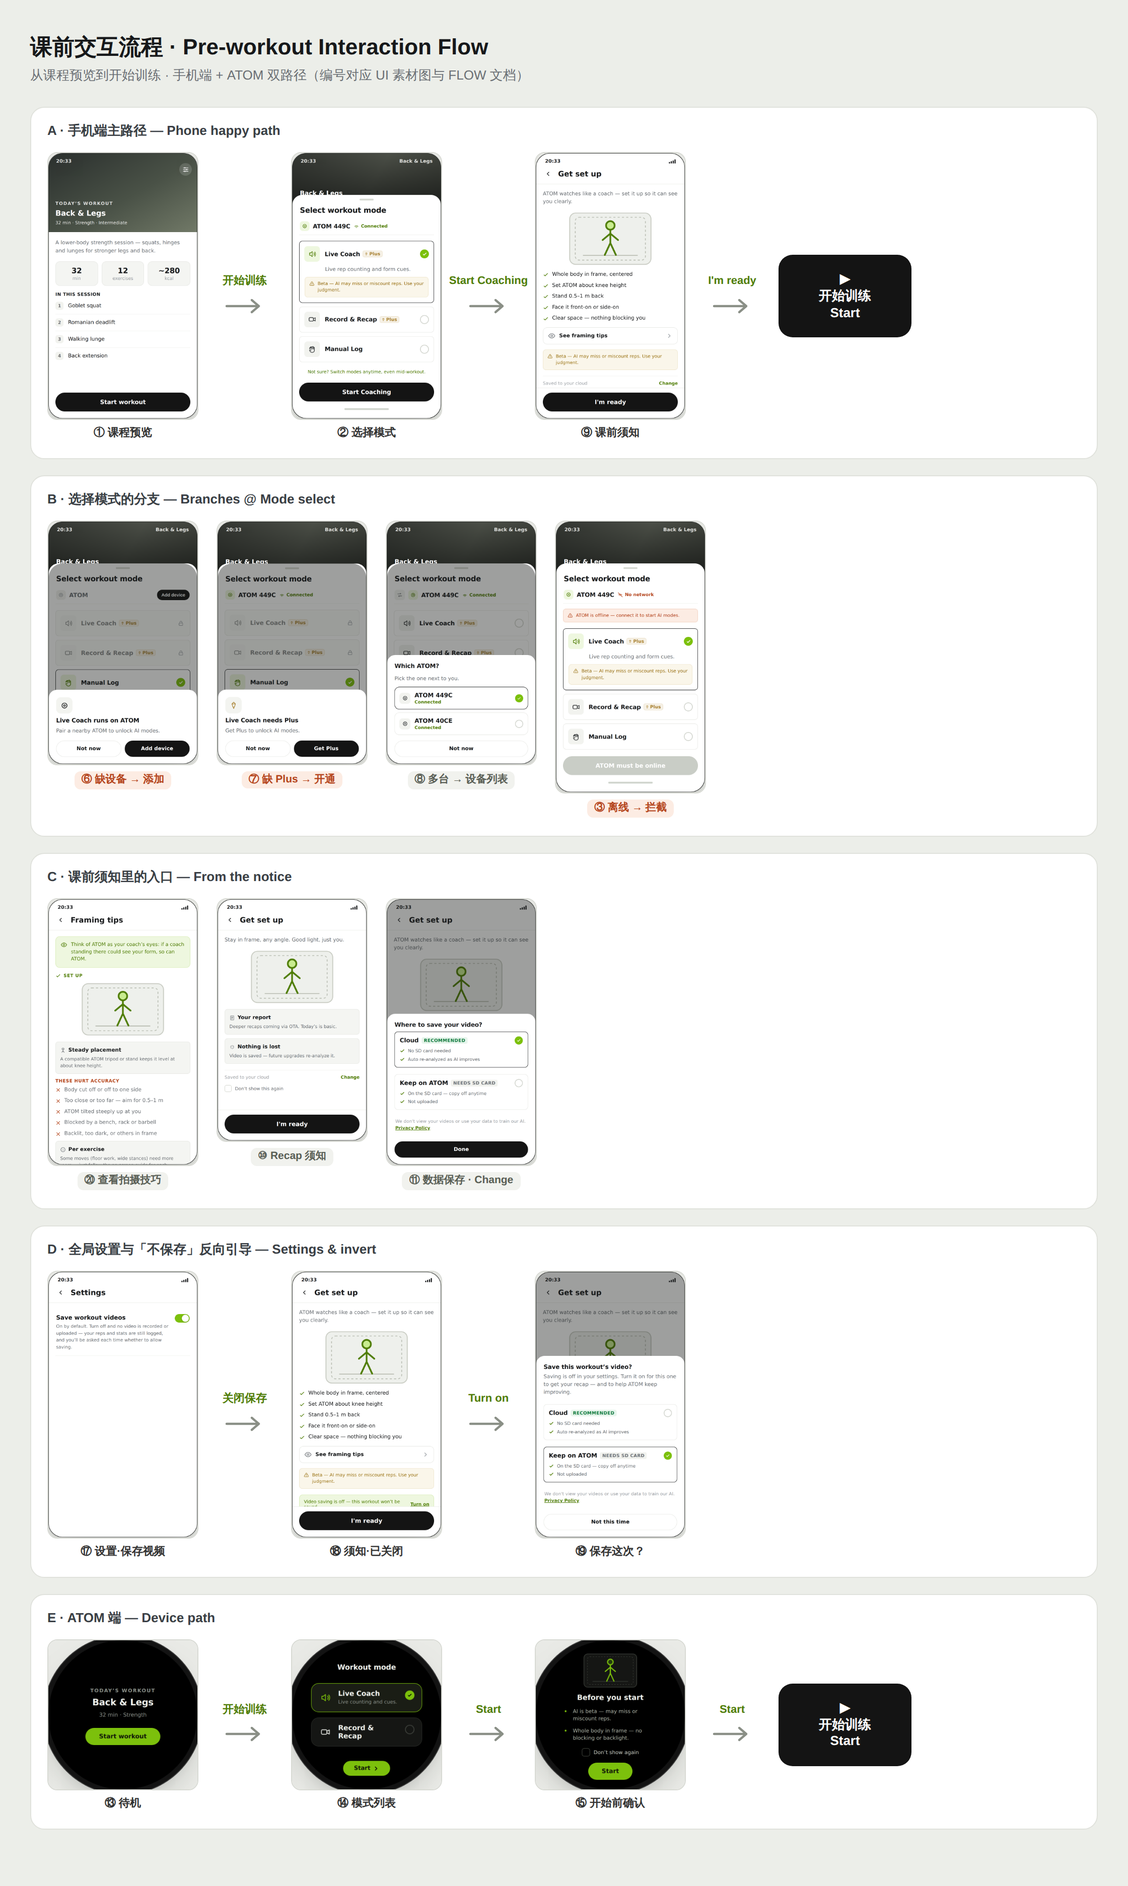
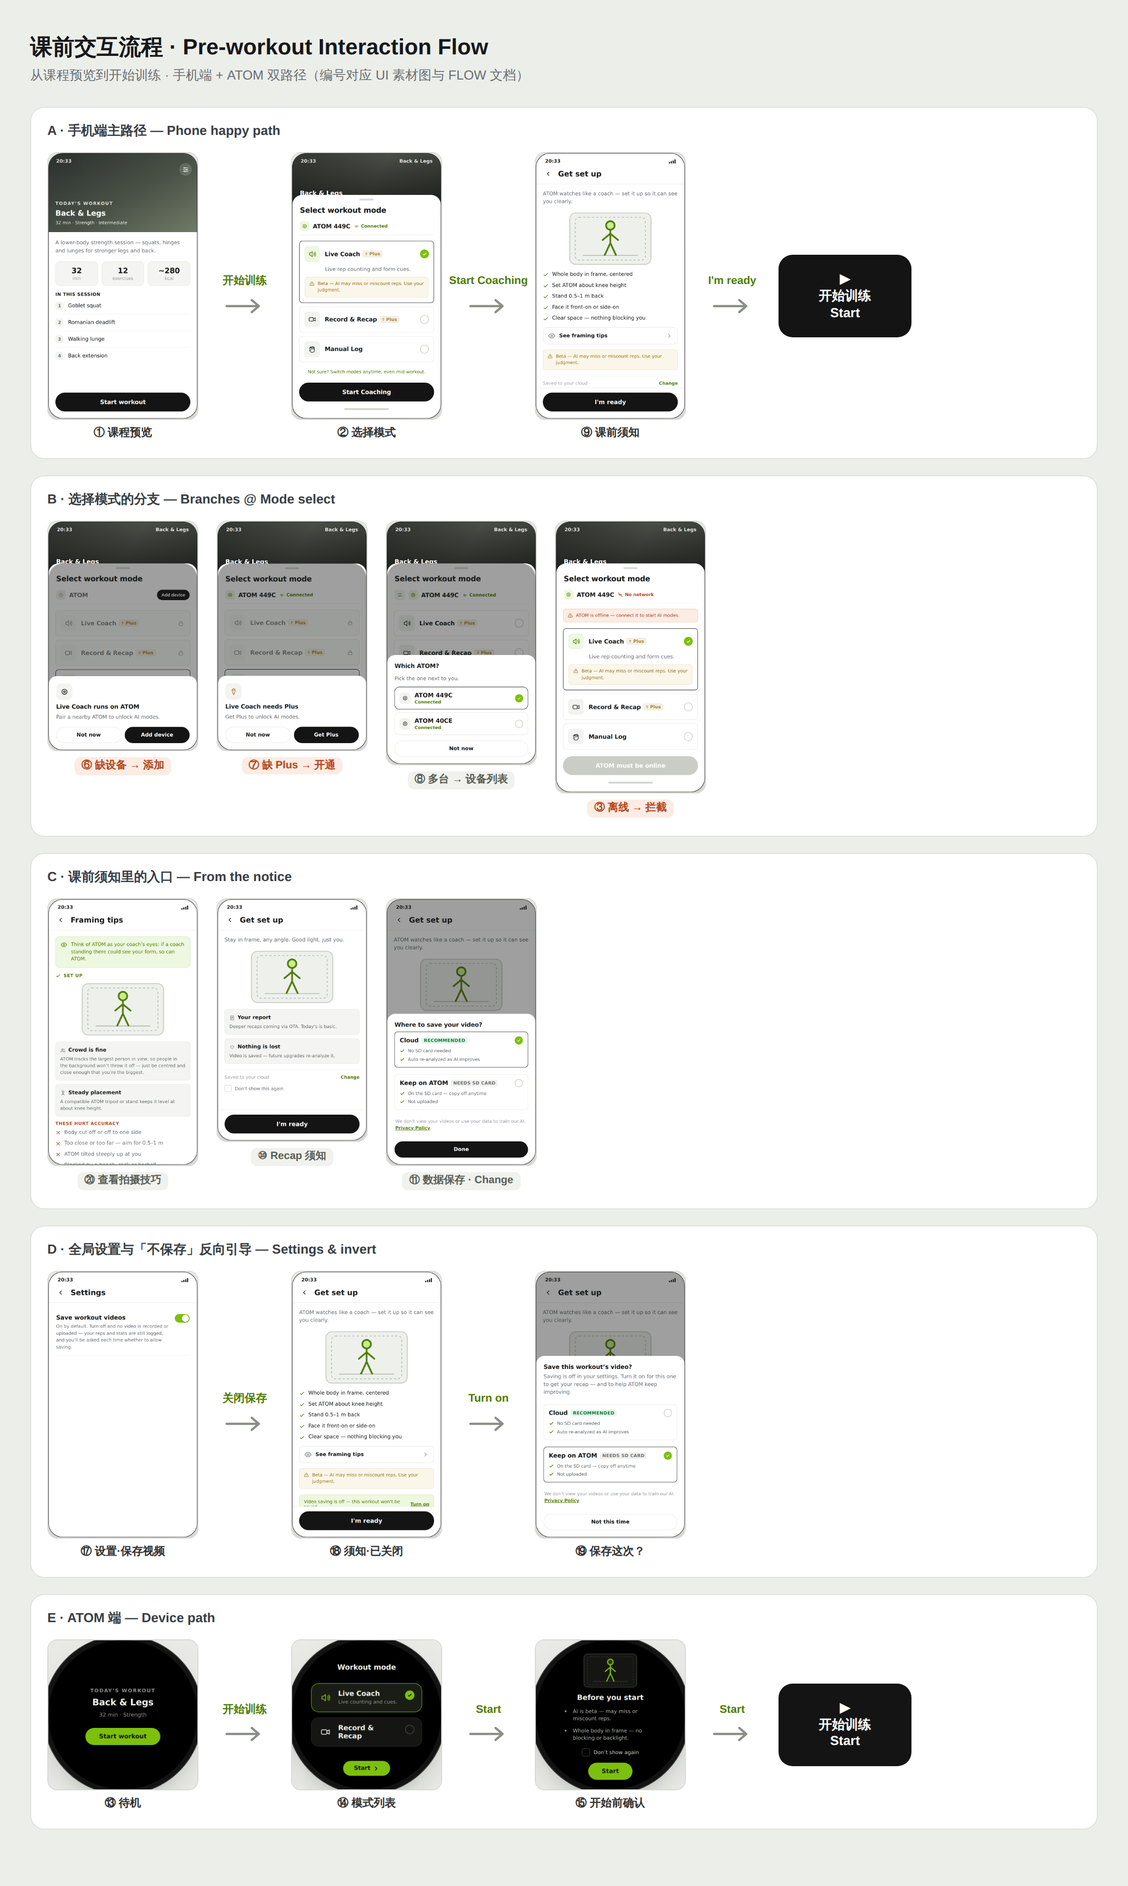
Edge-case polish + largest-figure model; PRD/images/Flutter in sync
Prototype + Flutter:
- flexNote ("switch anytime") now hides whenever AI modes aren't usable
  (no device / no Plus / offline), not just offline — it's misleading when
  only Manual works.
- Add a "Crowd is fine" note to the Framing tips page: ATOM tracks the
  largest figure, so background people don't matter — be centred & biggest.
- Framing "avoid": drop "others in frame" (contradicted the above) →
  "heavy shadows".

PRD:
- Rewrite §7 as an Edge / empty / limit-state audit (0-device, no-Plus,
  no-SD, saving-off, empty course, long names, >2 devices, combined gates…).
- Add a "mode mental model" principle to §4.1 (simple 3-tier model, no
  config matrix); update flexNote note (green, hide-when-AI-unusable);
  reconcile framing copy + copy inventory.

Images: regenerate UI-spec (EN/中) + flow-board.

Claude-Session: https://claude.ai/code/session_014PR3u6XwyoxidkFV3YCNB7

Changed region(s): [[0.0312, 0.3436, 0.3438, 0.4373], [0.0625, 0.5622, 0.125, 0.6247]]

diff --git a/prototype-课前模式选择.html b/prototype-课前模式选择.html
@@ -609,10 +609,11 @@
       coachDoH:'Set up',
       coachDo:['Whole body in frame, centered','Set ATOM about knee height','Stand 0.5–1 m back','Face it front-on or side-on','Clear space — nothing blocking you'],
       coachAvoidH:'These hurt accuracy',
-      coachAvoid:['Body cut off or off to one side','Too close or too far — aim for 0.5–1 m','ATOM tilted steeply up at you','Blocked by a bench, rack or barbell','Backlit, too dark, or others in frame'],
+      coachAvoid:['Body cut off or off to one side','Too close or too far — aim for 0.5–1 m','ATOM tilted steeply up at you','Blocked by a bench, rack or barbell','Backlit, too dark, or heavy shadows'],
       coachLine:'Think of ATOM as your coach’s eyes: if a coach standing there could see your form, so can ATOM.',
       tipsLink:'See framing tips', tipsTitle:'Framing tips',
       tripodH:'Steady placement', tripod:'A compatible ATOM tripod or stand keeps it level at about knee height.',
+      crowdH:'Crowd is fine', crowd:'ATOM tracks the largest person in view, so people in the background won’t throw it off — just be centred and close enough that you’re the biggest.',
       perExH:'Per exercise', perEx:'Some moves (floor work, wide stances) need more room — just follow the on-screen guide for each.',
       recapSub:'Stay in frame, any angle. Good light, just you.',
       recapDoH:'Keep in mind',
@@ -662,10 +663,11 @@
       coachDoH:'这样摆',
       coachDo:['全身入框，站在画面中央','ATOM 放到约膝盖高度','离 ATOM 0.5–1 米','正对或侧对镜头','周围留空，别被器械挡住'],
       coachAvoidH:'这些会影响识别',
-      coachAvoid:['身体被裁切或偏到一边','太近或太远——0.5–1 米最好','ATOM 过度仰角对着你','被卧推凳、深蹲架或杠铃挡住','逆光、过暗，或有他人入镜'],
+      coachAvoid:['身体被裁切或偏到一边','太近或太远——0.5–1 米最好','ATOM 过度仰角对着你','被卧推凳、深蹲架或杠铃挡住','逆光、过暗，或阴影很重'],
       coachLine:'把 ATOM 想成教练的眼睛：教练站那儿能看清你的动作，ATOM 就能看清。',
       tipsLink:'查看拍摄技巧', tipsTitle:'拍摄技巧',
       tripodH:'稳定摆放', tripod:'用配套的 ATOM 三脚架/支架，把它平稳架在约膝盖高度。',
+      crowdH:'背景有人没关系', crowd:'ATOM 只认画面里最大的那个人，背景有人也不影响——你居中、离得够近，是画面里最大的主体就行。',
       perExH:'不同动作', perEx:'部分动作（地面动作、大跨步）需要更大画面，按每个动作的屏幕提示调整即可。',
       recapSub:'全程在画面里，角度随意。光线充足、只有你。',
       recapDoH:'记住这几点',
@@ -768,6 +770,7 @@
   var EYEI='<svg viewBox="0 0 24 24" fill="none" stroke="currentColor" stroke-width="1.8" stroke-linecap="round" stroke-linejoin="round"><path d="M2 12s3.5-7 10-7 10 7 10 7-3.5 7-10 7-10-7-10-7Z"/><circle cx="12" cy="12" r="3"/></svg>';
   var CHEVI='<svg viewBox="0 0 24 24" fill="none" stroke="currentColor" stroke-width="2.2" stroke-linecap="round" stroke-linejoin="round"><path d="M9 6l6 6-6 6"/></svg>';
   var TRIPODI='<svg viewBox="0 0 24 24" fill="none" stroke="currentColor" stroke-width="1.8" stroke-linecap="round" stroke-linejoin="round"><rect x="8" y="3" width="8" height="6" rx="1.5"/><path d="M12 9v5M12 14l-5 7M12 14l5 7M9.5 17.5h5"/></svg>';
+  var PEOPLEI='<svg viewBox="0 0 24 24" fill="none" stroke="currentColor" stroke-width="1.8" stroke-linecap="round" stroke-linejoin="round"><circle cx="9" cy="8" r="3"/><path d="M3 20a6 6 0 0 1 12 0"/><path d="M16 5.5a3 3 0 0 1 0 5M21 20a5.5 5.5 0 0 0-4-5.3"/></svg>';
   function _tipslink(t){ return '<div class="tipslink" id="ps-tips"><span class="ti">'+EYEI+'</span><span class="tt">'+t.tipsLink+'</span><span class="tc">'+CHEVI+'</span></div>'; }
   function openPrestart(keep){
     var t=T[LANG];
@@ -798,6 +801,7 @@
     tipsT.textContent=t.tipsTitle;
     tipsBody.innerHTML='<div class="coachcallout">'+EYEI+'<span>'+t.coachLine+'</span></div>'
       +'<div class="okcap">'+CHK+'<span>'+t.coachDoH+'</span></div>'+FRAME_LIGHT
+      +_info(PEOPLEI,t.crowdH,t.crowd)
       +_info(TRIPODI,t.tripodH,t.tripod)
       +_sec(t.coachAvoidH,true)+_avoid(t.coachAvoid)
       +_info(INFOI,t.perExH,t.perEx);
@@ -911,7 +915,10 @@
 
     var showWarn = paired() && !online();
     warn.classList.toggle('show', showWarn);
-    var fnote=document.getElementById('flexnote'); if(fnote) fnote.style.display=showWarn?'none':'';
+    // "switch anytime" only makes sense when the AI modes are actually usable
+    // (paired + Plus + online). Otherwise only Manual is available → hide it.
+    var aiReady = paired() && PLUS && online();
+    var fnote=document.getElementById('flexnote'); if(fnote) fnote.style.display=aiReady?'':'none';
     if(showWarn){ var msg=t.warnNonet;
       var otherOnline = DEVCOUNT==='two' && deviceList().some(function(d,i){return i!==ACTIVE && d.status==='conn';});
       if(otherOnline) msg+=t.switchHint; warnTxt.textContent=msg; }

diff --git a/flutter/lib/workout_mode/strings.dart b/flutter/lib/workout_mode/strings.dart
@@ -105,19 +105,23 @@ class L {
       'Think of ATOM as your coach’s eyes: if a coach standing there could see your form, so can ATOM.',
       '把 ATOM 想成教练的眼睛：教练站那儿能看清你，ATOM 就能看清。');
   String get setupLabel => _t('Set up', '这样摆');
+  String get crowdHeader => _t('Crowd is fine', '背景有人没关系');
+  String get crowd => _t(
+      'ATOM tracks the largest person in view, so people in the background won’t throw it off — just be centred and close enough that you’re the biggest.',
+      'ATOM 只认画面里最大的那个人，背景有人也不影响——你居中、离得够近，是画面里最大的主体就行。');
   String get tripodHeader => _t('Steady placement', '稳定摆放');
   String get tripod => _t(
       'A compatible ATOM tripod or stand keeps it level at about knee height.',
       '用配套的 ATOM 三脚架/支架，把它平稳架在约膝盖高度。');
   String get avoidHeader => _t('These hurt accuracy', '这些会影响识别');
   List<String> get coachAvoid => zh
-      ? const ['身体被裁切或偏到一边', '太近或太远——0.5–1 米最好', 'ATOM 过度仰角对着你', '被卧推凳、深蹲架或杠铃挡住', '逆光、过暗，或有他人入镜']
+      ? const ['身体被裁切或偏到一边', '太近或太远——0.5–1 米最好', 'ATOM 过度仰角对着你', '被卧推凳、深蹲架或杠铃挡住', '逆光、过暗，或阴影很重']
       : const [
           'Body cut off or off to one side',
           'Too close or too far — aim for 0.5–1 m',
           'ATOM tilted steeply up at you',
           'Blocked by a bench, rack or barbell',
-          'Backlit, too dark, or others in frame',
+          'Backlit, too dark, or heavy shadows',
         ];
   String get perExHeader => _t('Per exercise', '不同动作');
   String get perEx => _t(

diff --git a/flutter/lib/workout_mode/phone_sheet.dart b/flutter/lib/workout_mode/phone_sheet.dart
@@ -68,9 +68,10 @@ class WorkoutModeSheet extends StatelessWidget {
                     onTap: () => _onModeTap(context, m),
                   ),
                 ),
-              // "Switch anytime" note: plain green text, below the cards,
-              // hidden while ATOM is offline (it'd contradict the block).
-              if (!controller.showOfflineWarning) _FlexNote(text: l.flexNote),
+              // "Switch anytime" note: plain green text, below the cards.
+              // Shown only when the AI modes are actually usable (device +
+              // Plus + online); otherwise only Manual works and it'd mislead.
+              if (controller.aiUsable) _FlexNote(text: l.flexNote),
               const SizedBox(height: 2),
               _cta(context, l),
             ],

diff --git a/flutter/lib/workout_mode/course_notice.dart b/flutter/lib/workout_mode/course_notice.dart
@@ -130,6 +130,8 @@ class FramingTipsPage extends StatelessWidget {
             const SizedBox(height: 8),
             const FramingIllustration(),
             const SizedBox(height: 14),
+            _InfoBox(icon: Icons.groups_outlined, header: l.crowdHeader, body: l.crowd),
+            const SizedBox(height: 10),
             _InfoBox(icon: Icons.camera_outdoor_outlined, header: l.tripodHeader, body: l.tripod),
             const SizedBox(height: 16),
             Text(l.avoidHeader.toUpperCase(),

diff --git a/flutter/lib/workout_mode/controller.dart b/flutter/lib/workout_mode/controller.dart
@@ -80,6 +80,10 @@ class WorkoutModeController extends ChangeNotifier {
 
   bool get showOfflineWarning => isPaired && !isOnline;
 
+  /// AI modes are fully usable (device + Plus + online). Drives whether the
+  /// "switch anytime" note is shown — it's misleading when only Manual works.
+  bool get aiUsable => isPaired && isPlus && isOnline;
+
   // ---- writes ----
   void selectMode(WorkoutMode m) {
     if (isLocked(m) || _selected == m) return;

diff --git a/PRD-课前模式选择.md b/PRD-课前模式选择.md
@@ -71,11 +71,11 @@
 
 > 「**不确定？课中随时能切换，先选一个。**」
 
-**位置与样式**：放在**三张卡片下方、主按钮上方**；为**纯灰色小字**（不加色块/描边/图标），弱化存在感。**ATOM 离线时不展示**这句（此时 AI 模式本就无法启动，提示会自相矛盾）。
+**位置与样式**：放在**三张卡片下方、主按钮上方**；为**友好的绿色小字**（不加色块/描边/图标），弱化存在感。**只在 AI 模式真正可用时才展示**（配对 + Plus + 在线）；无设备 / 无 Plus / 离线时**自动隐藏**——此时只有 Manual Log 可选，「随时切换三种模式」会自相矛盾。
+
+**模式心智原则（易懂优先）**：目标是让用户快速建立「实时带练 / 只录制看报告 / 纯手动」这个**三档心智**，但**不做成复杂配置**。落地手法：① 具名卡片、一句话说明；② 未选中只留标题，选中才展开一行（信息渐进）；③「课中随时能切」降低决策压力；④ 命名沿一条**直觉光谱**：实时驱动 → 自动 → 全手动。**不引入**开关矩阵 / 多层设置，避免"配置感"。
 
 > 备选结构（已探索、暂不采用）见 `explorations/`：D 能力开关、E 两开关+独立手动、C 具名+开关、A 单开关。若未来能力增多或跟练课上线，可再评估切换到开关式。
-
-命名沿「AI 参与度」光谱：实时驱动 → 自动 → 全手动。
 
 | 模式 | 一句话 | 依赖 | 图标 |
 |---|---|---|---|
@@ -136,7 +136,8 @@
   - 离约 **0.5–1 米**；
   - 正对或侧对，**别过度仰角**；
   - 周围留空，**别被器械（卧推凳 / 深蹲架 / 杠铃）挡住**。
-- **反例（✗ 会影响识别）+ 稳定摆放 + 每个动作差异**放到单独的**「拍摄技巧」二级页**（须知上有「查看拍摄技巧」入口），避免课前堆负面信息。**图片策略**：须知放 1 张 OK；Tips 页放 OK vs 若干 Not-OK 对照 + 说明。
+- **拍摄技巧」二级页**（须知上有「查看拍摄技巧」入口，避免课前堆负面信息）内容：教练心智 + OK 图 + **「背景有人没关系」**（ATOM 只认画面里最大的那个人）+ 稳定摆放（三脚架）+ 反例（✗ 会影响识别）+ 每个动作差异。**图片策略**：须知放 1 张 OK；Tips 页放 OK vs 若干 Not-OK 对照 + 说明。
+  - **识别主体**：ATOM **自动锁定画面中最大的角色**——所以背景里有其他人一般不影响，关键是你**居中、离得够近，是画面里最大的主体**。（这条也进详版 `TIPS-识别准确度指南.md`。）
 - **稳定摆放**（Tips 页）：推荐**配套 ATOM 三脚架/支架**，把设备平稳架在约膝盖高度。
 - 课前要求可**按动作模板化**（地面动作 / 大跨步需要更大画面）。
 - **Beta 提示**：可能漏/误计，请自行判断。
@@ -219,7 +220,8 @@ flowchart TD
 | 课前须知·标题 | Get set up | 课前须知 |
 | Coach 副标 | ATOM watches like a coach — set it up so it can see you clearly. | ATOM 就像教练的眼睛——摆好位置，让它看清你。 |
 | Coach 做到（5） | Whole body in frame, centered · Set ATOM about knee height · Stand 0.5–1 m back · Face it front-on or side-on · Clear space — nothing blocking you | 全身入框，站在画面中央 · ATOM 放到约膝盖高度 · 离 ATOM 0.5–1 米 · 正对或侧对镜头 · 周围留空，别被器械挡住 |
-| Coach 反例（Tips 页） | Body cut off or off to one side · Too close or too far (0.5–1 m) · ATOM tilted steeply up · Blocked by a bench, rack or barbell · Backlit, dark, or others in frame | 身体被裁切或偏到一边 · 太近或太远（0.5–1 米） · ATOM 过度仰角 · 被卧推凳/深蹲架/杠铃挡住 · 逆光、过暗或他人入镜 |
+| Coach 反例（Tips 页） | Body cut off or off to one side · Too close or too far (0.5–1 m) · ATOM tilted steeply up · Blocked by a bench, rack or barbell · Backlit, too dark, or heavy shadows | 身体被裁切或偏到一边 · 太近或太远（0.5–1 米） · ATOM 过度仰角 · 被卧推凳/深蹲架/杠铃挡住 · 逆光、过暗或阴影很重 |
+| Tips · 背景有人没关系 | Crowd is fine · ATOM tracks the largest person in view, so background people won't throw it off — just be centred and biggest. | 背景有人没关系 · ATOM 只认画面里最大的那个人，背景有人也不影响——你居中、是最大的主体就行。 |
 | Tips · 稳定摆放 | A compatible ATOM tripod or stand keeps it level at about knee height. | 用配套的 ATOM 三脚架/支架，把它平稳架在约膝盖高度。 |
 | 教练心智 | Think of ATOM as your coach's eyes: if a coach standing there could see your form, so can ATOM. | 把 ATOM 想成教练的眼睛：教练站那儿能看清你，ATOM 就能看清。 |
 | Recap 副标 | Stay in frame, any angle. Good light, just you. | 全程在画面里，角度随意。光线充足、只有你。 |
@@ -310,9 +312,10 @@ flowchart TD
 | tipsTitle | Framing tips | 拍摄技巧 |
 | coachLine | Think of ATOM as your coach's eyes: if a coach standing there could see your form, so can ATOM. | 把 ATOM 想成教练的眼睛：教练站那儿能看清你，ATOM 就能看清。 |
 | coachDoH（OK 标）| Set up | 这样摆 |
+| crowdH / crowd | Crowd is fine / ATOM tracks the largest person in view, so people in the background won't throw it off — just be centred and close enough that you're the biggest. | 背景有人没关系 / ATOM 只认画面里最大的那个人，背景有人也不影响——你居中、离得够近，是画面里最大的主体就行。 |
 | tripodH / tripod | Steady placement / A compatible ATOM tripod or stand keeps it level at about knee height. | 稳定摆放 / 用配套的 ATOM 三脚架/支架，把它平稳架在约膝盖高度。 |
 | coachAvoidH | These hurt accuracy | 这些会影响识别 |
-| coachAvoid（5）| Body cut off or off to one side · Too close or too far — aim for 0.5–1 m · ATOM tilted steeply up at you · Blocked by a bench, rack or barbell · Backlit, too dark, or others in frame | 身体被裁切或偏到一边 · 太近或太远——0.5–1 米最好 · ATOM 过度仰角对着你 · 被卧推凳、深蹲架或杠铃挡住 · 逆光、过暗，或有他人入镜 |
+| coachAvoid（5）| Body cut off or off to one side · Too close or too far — aim for 0.5–1 m · ATOM tilted steeply up at you · Blocked by a bench, rack or barbell · Backlit, too dark, or heavy shadows | 身体被裁切或偏到一边 · 太近或太远——0.5–1 米最好 · ATOM 过度仰角对着你 · 被卧推凳、深蹲架或杠铃挡住 · 逆光、过暗，或阴影很重 |
 | perExH / perEx | Per exercise / Some moves (floor work, wide stances) need more room — just follow the on-screen guide for each. | 不同动作 / 部分动作（地面动作、大跨步）需要更大画面，按每个动作的屏幕提示调整即可。 |
 
 ### ⑬⑭⑮⑯ ATOM 圆屏 Device
@@ -343,16 +346,37 @@ flowchart TD
 
 ---
 
-## 7. 边界情况 · Edge cases
+## 7. 边界与空/极限状态 · Edge, empty & limit states
 
+### 7.1 状态矩阵 · State matrix
 | 维度 | 状态 | 处理 |
 |---|---|---|
-| 配对 | 未配对 / 单台 / 多台 | 锁定引导 / 正常 / 列表二次选择 |
-| 网络 | 在线 / 无网络 | 可启动 / 拦截并提示 |
+| 配对 | 未配对 / 单台 / 多台 | AI 锁定引导添加 / 正常 / 切换图标弹列表二次选择 |
+| 网络 | 在线 / 无网络 | 可启动 / **拦截**并顶部告警、CTA 置灰 |
 | 会员 | 有 / 无 Plus | 正常 / 锁定引导开通 |
 | 手动记录 | 任意 | 永远可用，不依赖设备/网络/会员 |
 
-**有意不在此处理**：低电量、固件升级、课中掉线、Plus 课中到期、权限申请（解耦到进入模式后）。
+### 7.2 空 / 0 状态 · Empty & zero states
+| 场景 | 现状 | 处理 / 待办 |
+|---|---|---|
+| **无设备**（0 台） | 设备行显示「ATOM」+ 添加设备；两个 AI 模式灰化锁定；只有 Manual Log 可用 | ✓ **「课中随时能切」小字自动隐藏**（只有 Manual 时切换提示无意义）|
+| **无 Plus** | AI 模式灰化，点击弹开通；只有 Manual | ✓ 同上，切换小字隐藏 |
+| **无 SD 卡 + 选「仅存 ATOM」** | 须知数据行 + 弹窗告警「本次不会保留」 | ✓；**边界**：全局关保存→引导弹窗里选「仅存 ATOM」且无 SD，当前是选完即收起、告警落在须知那行（用户仍被告知）|
+| **全局关闭保存视频** | 须知数据行变绿色引导条「已关闭·开启」 | ✓ 反向引导 |
+| **课程无动作 / 数据缺失**（预览） | 预览的时长/动作/消耗、动作清单为占位 | ⏳ 接真实数据；**0 动作时应隐藏「本节包含」整块**（工程实现注意）|
+
+### 7.3 极限状态 · Limit states
+| 场景 | 现状 | 处理 / 待办 |
+|---|---|---|
+| **超长设备名** | 单行不换行，可能溢出 | ⏳ 加 `ellipsis` 截断 |
+| **Record & Recap 英文名较长** | 窄屏 `Plus` 标签掉到标题下一行 | 可接受（已处理换行）|
+| **超长课程名 / 动作名** | 预览标题、动作行可能折行/溢出 | ⏳ 限行 + `ellipsis` |
+| **多台设备（>2）** | 原型仅演示 2 台 | ⏳ 设备列表需**可滚动** |
+| **多台全部离线** | 顶部告警，无「切到在线设备」补充句 | ✓ |
+| **离线 + 无 Plus 同时** | 门槛优先级：点锁定卡先弹「缺设备/缺 Plus」（设备优先）；离线告警仍显示但此时 AI 本就不可选 | ✓（告警无害，可后续按需抑制）|
+| **状态中途变化被锁** | 选中项被锁 → 自动回退到可用模式（`_reconcile`）| ✓ |
+
+**有意不在此处理 · Out of scope**：ATOM 低电量 / 固件升级（不硬卡）、Plus 课中到期、**课中** ATOM 掉线降级、权限申请（解耦到进入模式后再按需申请）、ATOM 设备端自身的离线态。
 
 ---
 
